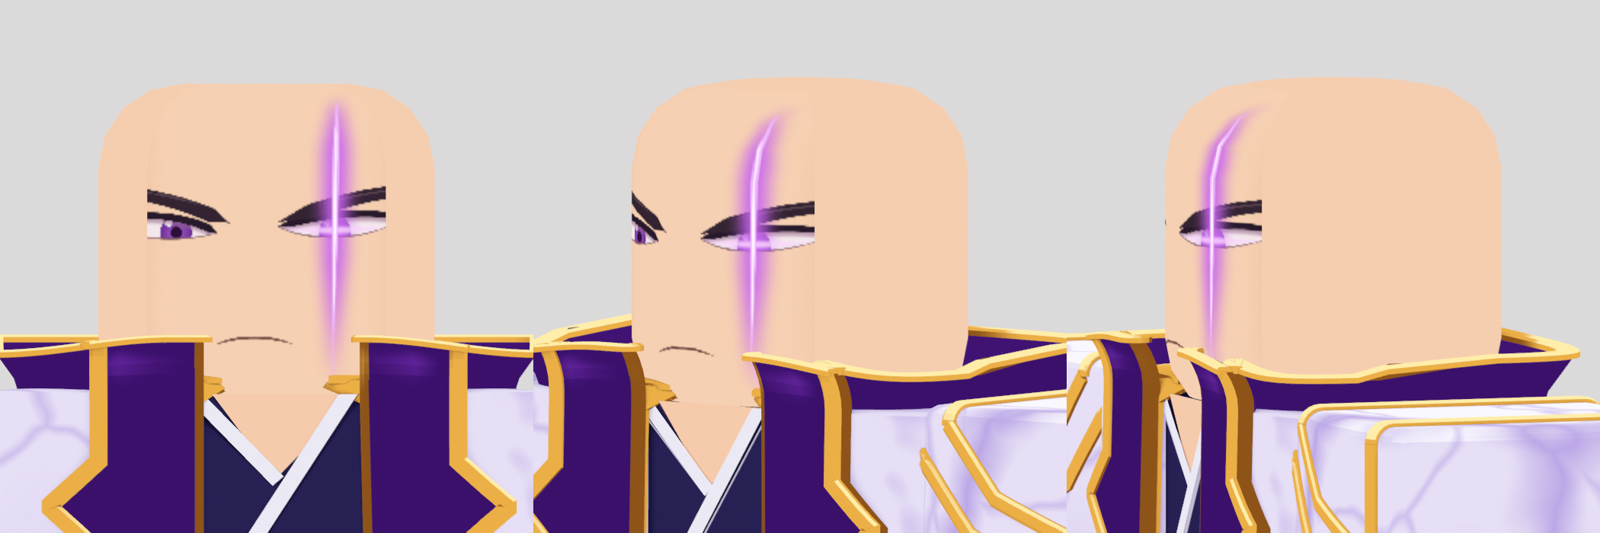
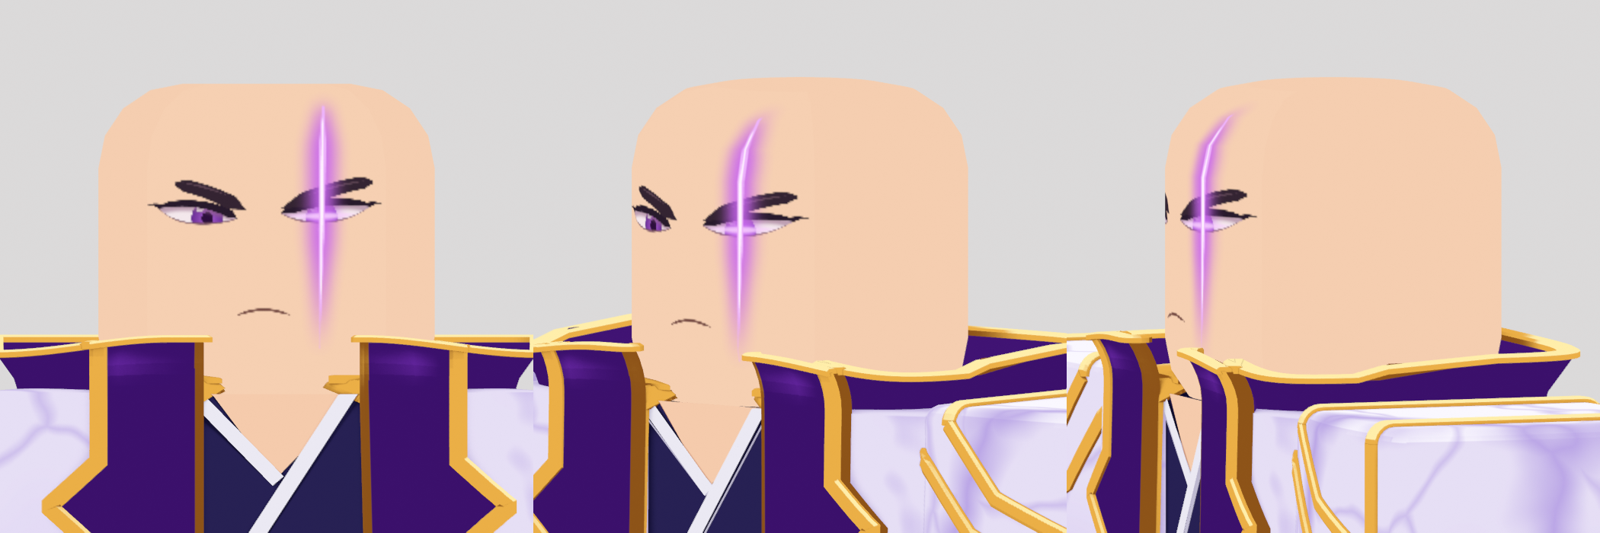
Face fits on the front of the head (no cut-off at the sides)
Claude-Session: https://claude.ai/code/session_01WBHFtZHnGs423HQt8NggPD

Changed region(s): [[0.375, 0.2101, 0.5312, 0.6604], [0.0938, 0.1801, 0.25, 0.6604], [0.7188, 0.2101, 0.8125, 0.6604]]

diff --git a/blender/parts/scripts/face_draw3.py b/blender/parts/scripts/face_draw3.py
@@ -3,7 +3,7 @@ import math, numpy as np
 R=1200; SS=3; W=R*SS
 SK=(246,208,178)
 def P(px,py):
-    X=(288.5-px)/123*1.2; Z=3.95+(352-py)/112*1.1
+    X=(285.5-px)/123*1.2*0.72; Z=4.08+(352-py)/112*0.96
     return ((0.6-X)/1.2*W, (5.1-Z)/1.2*W)
 base=Image.new('RGB',(W,W),SK)
 def layer_paint(img,fn,color,blur=0,alpha=1.0):
@@ -30,7 +30,7 @@ def stroke(d,pts,w0,w1,taper_in=0.25,taper_out=0.35):
         L.append(tuple(np.array(p)+nn*w/2)); Rr.append(tuple(np.array(p)-nn*w/2))
     d.polygon(L+Rr[::-1],fill=255)
 # --- skin shading: side falloff, cheek warmth, under-brow and nose shadow
-layer_paint(base,lambda d:(d.rectangle([0,0,W*0.12,W],fill=255),d.rectangle([W*0.88,0,W,W],fill=255)),(226,172,144),blur=45,alpha=0.8)
+
 for cx in (250,320): layer_paint(base,lambda d,cx=cx:d.ellipse([P(cx-13,312)[0],P(0,309)[1],P(cx+13,312)[0],P(0,320)[1]]),(242,160,148),blur=10,alpha=0.35)
 layer_paint(base,lambda d:d.polygon([P(286,300),P(289,300),P(291,318),P(285,319)]),(226,170,145),blur=3,alpha=0.6)
 layer_paint(base,lambda d:d.ellipse([P(283,317)[0],P(0,316)[1],P(293,317)[0],P(0,320)[1]]),(214,152,128),blur=2,alpha=0.7)
